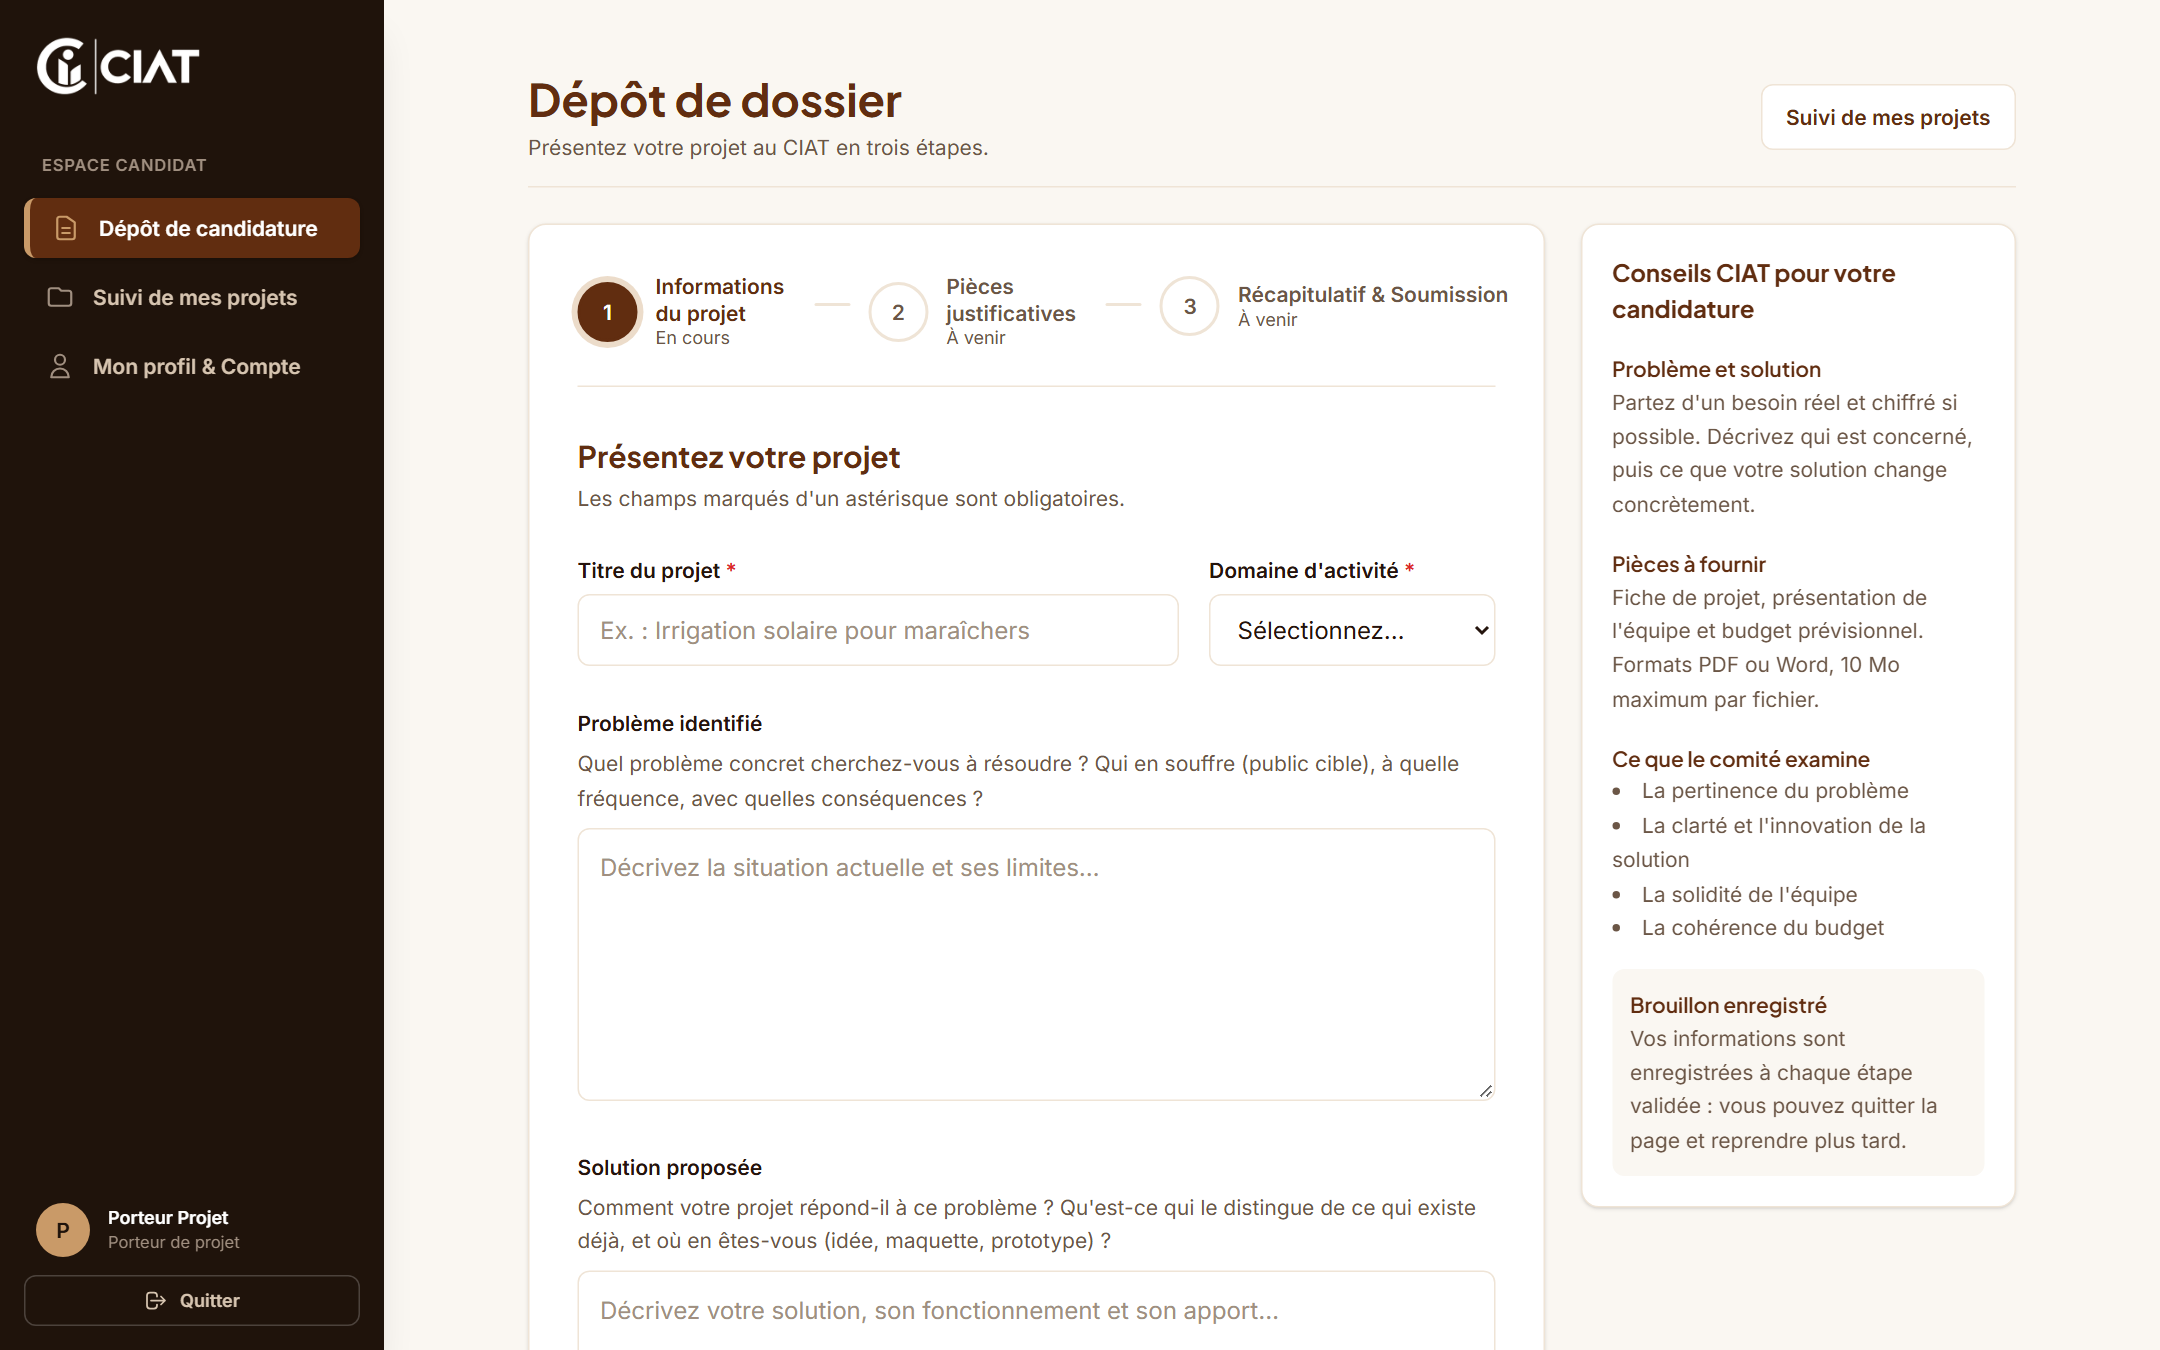
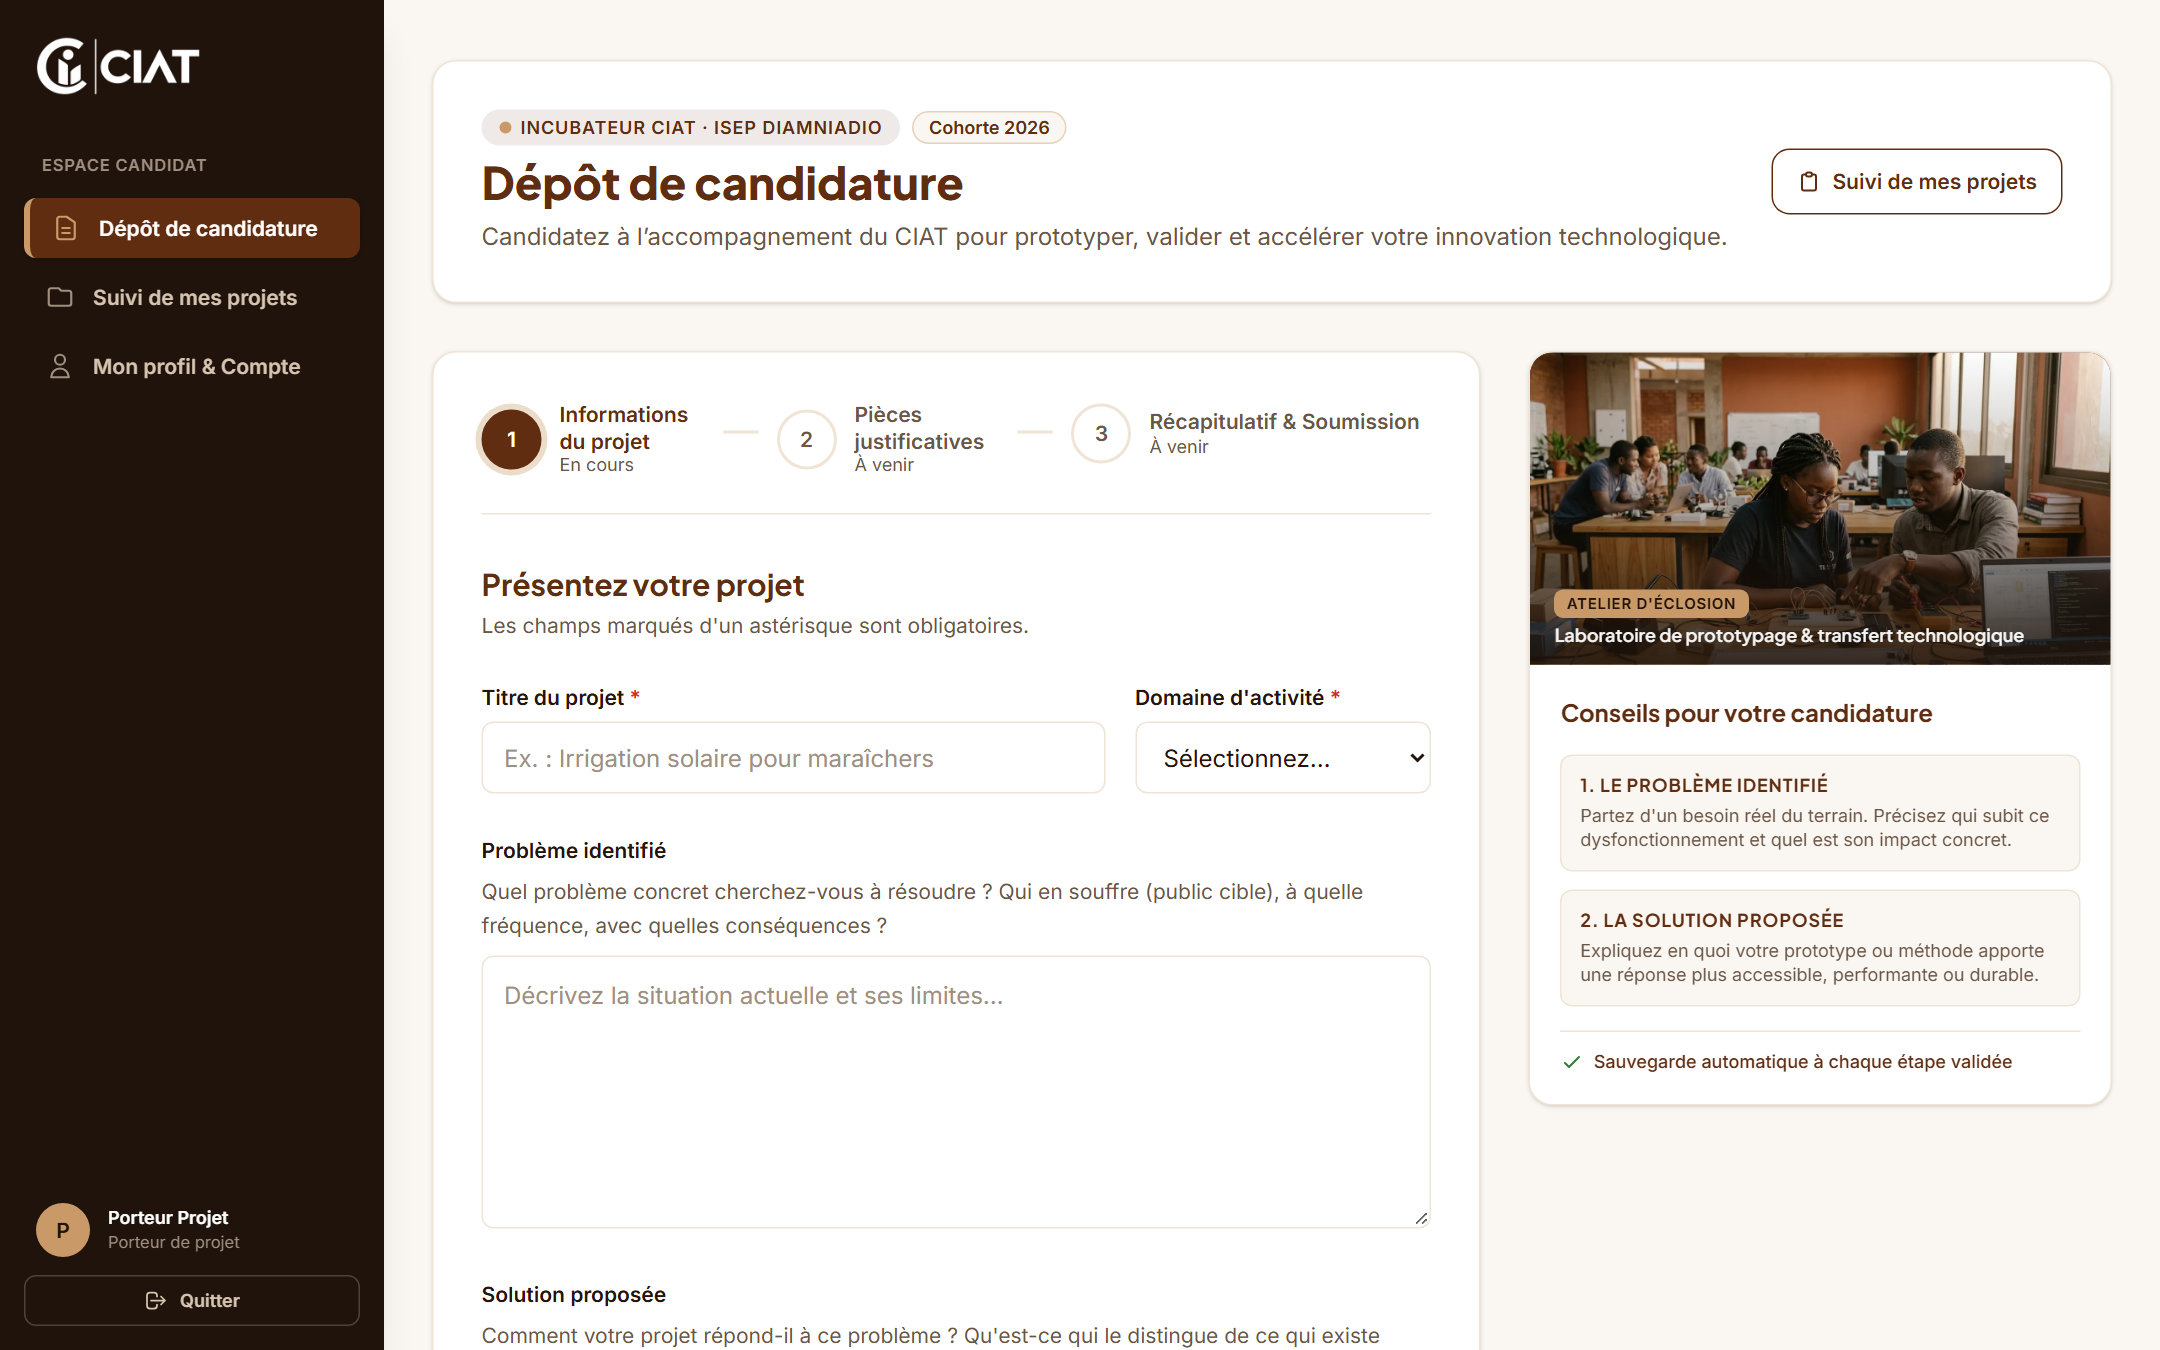
feat(ux): refonte complete depot de candidature avec nouvelle image atelier et accompagnement dynamique

diff --git a/frontend/src/app/incubateur/page.tsx b/frontend/src/app/incubateur/page.tsx
@@ -1,6 +1,7 @@
 "use client";
 
 import { useEffect, useState } from "react";
+import Image from "next/image";
 import Link from "next/link";
 import { ProtectedRoute } from "@/components/ProtectedRoute";
 import { useAuth } from "@/context/AuthContext";
@@ -130,25 +131,45 @@ function DepotDossier() {
   };
 
   return (
-    <div className="mx-auto w-full max-w-5xl px-4 py-8 sm:py-12">
-      <div className="mb-6 flex flex-wrap items-center justify-between gap-3 border-b border-[#EFE4D6] pb-4">
-        <div>
-          <h1 className="text-2xl font-bold text-[#612D10] sm:text-3xl">Dépôt de dossier</h1>
-          <p className="mt-1 text-sm text-[#6b5646]">Présentez votre projet au CIAT en trois étapes.</p>
-        </div>
-        <div className="flex flex-wrap items-center gap-2">
-          {dossier && !submitted && (
-            <span className="inline-flex min-h-9 items-center gap-2 rounded-full border border-[#C99A68]/60 bg-[#FAF7F2] px-3 text-xs font-semibold text-[#612D10]">
-              <span aria-hidden className="h-2 w-2 rounded-full bg-[#C99A68]" />
-              Brouillon enregistré · Dossier n°{dossier.id}
-            </span>
-          )}
-          <Link
-            href="/incubateur/projets"
-            className="inline-flex min-h-11 items-center rounded-lg border border-[#EFE4D6] bg-white px-4 text-sm font-semibold text-[#612D10] transition-colors hover:bg-[#FAF7F2]"
-          >
-            Suivi de mes projets
-          </Link>
+    <div className="mx-auto w-full max-w-7xl px-4 py-8 sm:px-6 sm:py-10 lg:px-8">
+      {/* En-tête immersif et institutionnel */}
+      <div className="mb-8 rounded-2xl border border-[#EFE4D6] bg-white p-6 shadow-sm sm:p-8">
+        <div className="flex flex-col gap-4 lg:flex-row lg:items-center lg:justify-between">
+          <div className="space-y-1.5">
+            <div className="flex flex-wrap items-center gap-2">
+              <span className="inline-flex items-center gap-1.5 rounded-full bg-[#612D10]/10 px-3 py-1 text-xs font-bold uppercase tracking-wider text-[#612D10]">
+                <span className="h-2 w-2 rounded-full bg-[#C99A68]" />
+                Incubateur CIAT · ISEP Diamniadio
+              </span>
+              <span className="inline-flex items-center rounded-full border border-[#C99A68]/40 bg-[#FAF7F2] px-2.5 py-0.5 text-xs font-semibold text-[#612D10]">
+                Cohorte 2026
+              </span>
+            </div>
+            <h1 className="font-[family-name:var(--font-title)] text-2xl font-extrabold text-[#612D10] sm:text-3xl">
+              Dépôt de candidature
+            </h1>
+            <p className="text-sm text-[#6b5646] sm:text-base">
+              Candidatez à l’accompagnement du CIAT pour prototyper, valider et accélérer votre innovation technologique.
+            </p>
+          </div>
+
+          <div className="flex flex-wrap items-center gap-3">
+            {dossier && !submitted && (
+              <span className="inline-flex min-h-11 items-center gap-2 rounded-xl border border-[#C99A68]/50 bg-[#FAF7F2] px-3.5 text-xs font-semibold text-[#612D10]">
+                <span aria-hidden className="h-2.5 w-2.5 rounded-full bg-[#2E7D32]" />
+                Brouillon enregistré · Dossier n°{dossier.id}
+              </span>
+            )}
+            <Link
+              href="/incubateur/projets"
+              className="inline-flex min-h-11 items-center gap-2 rounded-xl border border-[#612D10] bg-white px-4 text-sm font-semibold text-[#612D10] transition-colors hover:bg-[#FAF7F2]"
+            >
+              <svg className="h-4 w-4" fill="none" viewBox="0 0 24 24" stroke="currentColor">
+                <path strokeLinecap="round" strokeLinejoin="round" strokeWidth={2} d="M9 5H7a2 2 0 00-2 2v12a2 2 0 002 2h10a2 2 0 002-2V7a2 2 0 00-2-2h-2M9 5a2 2 0 002 2h2a2 2 0 002-2M9 5a2 2 0 012-2h2a2 2 0 012 2" />
+              </svg>
+              Suivi de mes projets
+            </Link>
+          </div>
         </div>
       </div>
 
@@ -157,8 +178,8 @@ function DepotDossier() {
           <div className="h-10 w-10 animate-spin rounded-full border-4 border-[#C99A68] border-t-[#612D10]" />
         </div>
       ) : (
-        <div className="grid gap-6 lg:grid-cols-[minmax(0,7fr)_minmax(0,3fr)] lg:items-start">
-          <div className="rounded-xl border border-[#EFE4D6] bg-white p-4 shadow-sm sm:p-8">
+        <div className="grid gap-8 lg:grid-cols-[minmax(0,1.8fr)_minmax(320px,1fr)] lg:items-start">
+          <div className="rounded-2xl border border-[#EFE4D6] bg-white p-6 shadow-sm sm:p-8">
             {!submitted && (
               <div className="mb-8 border-b border-[#EFE4D6] pb-6">
                 <Stepper current={step} maxReached={dossier ? maxReached : 0} onSelect={goTo} />
@@ -226,50 +247,121 @@ function DepotDossier() {
             )}
           </div>
 
-          {!submitted && <ConseilsCiat />}
+          {!submitted && <AccompagnementCiat step={step} />}
         </div>
       )}
     </div>
   );
 }
 
-function ConseilsCiat() {
+function AccompagnementCiat({ step }: { step: number }) {
   return (
-    <aside
-      aria-labelledby="conseils-titre"
-      className="rounded-xl border border-[#EFE4D6] bg-white p-5 shadow-sm lg:sticky lg:top-24"
-    >
-      <h2 id="conseils-titre" className="font-[family-name:var(--font-title)] text-base font-bold text-[#612D10]">
-        Conseils CIAT pour votre candidature
-      </h2>
-      <div className="mt-4 space-y-4 text-sm leading-relaxed text-[#24140D]">
-        <section>
-          <h3 className="font-semibold text-[#612D10]">Problème et solution</h3>
-          <p className="text-[#6b5646]">
-            Partez d&apos;un besoin réel et chiffré si possible. Décrivez qui est concerné, puis ce que votre solution change concrètement.
-          </p>
-        </section>
-        <section>
-          <h3 className="font-semibold text-[#612D10]">Pièces à fournir</h3>
-          <p className="text-[#6b5646]">
-            Fiche de projet, présentation de l&apos;équipe et budget prévisionnel. Formats PDF ou Word, 10 Mo maximum par fichier.
-          </p>
-        </section>
-        <section>
-          <h3 className="font-semibold text-[#612D10]">Ce que le comité examine</h3>
-          <ul className="list-inside list-disc text-[#6b5646]">
-            <li>La pertinence du problème</li>
-            <li>La clarté et l&apos;innovation de la solution</li>
-            <li>La solidité de l&apos;équipe</li>
-            <li>La cohérence du budget</li>
-          </ul>
-        </section>
-        <section className="rounded-lg bg-[#FAF7F2] p-3">
-          <h3 className="font-semibold text-[#612D10]">Brouillon enregistré</h3>
-          <p className="text-[#6b5646]">
-            Vos informations sont enregistrées à chaque étape validée : vous pouvez quitter la page et reprendre plus tard.
-          </p>
-        </section>
+    <aside aria-labelledby="accompagnement-titre" className="space-y-6 lg:sticky lg:top-8">
+      <div className="overflow-hidden rounded-2xl border border-[#EFE4D6] bg-white shadow-sm">
+        <div className="relative h-48 w-full bg-[#24140D] sm:h-52">
+          <Image
+            src="/images/ciat-depot-innovation.jpg"
+            alt="Atelier d'innovation et prototypage technologique au CIAT"
+            fill
+            className="object-cover"
+            priority
+          />
+          <div className="absolute inset-0 bg-gradient-to-t from-[#1F130B]/90 via-[#1F130B]/30 to-transparent" />
+          <div className="absolute bottom-3 left-4 right-4 text-white">
+            <span className="inline-block rounded-md bg-[#C99A68] px-2 py-0.5 text-[10px] font-bold uppercase tracking-wider text-[#1F130B]">
+              Atelier d&apos;Éclosion
+            </span>
+            <p className="mt-1 font-[family-name:var(--font-title)] text-xs font-semibold leading-tight text-white/95">
+              Laboratoire de prototypage & transfert technologique
+            </p>
+          </div>
+        </div>
+
+        <div className="p-5">
+          <h2 id="accompagnement-titre" className="font-[family-name:var(--font-title)] text-base font-bold text-[#612D10]">
+            Conseils pour votre candidature
+          </h2>
+
+          <div className="mt-4 space-y-4 text-sm leading-relaxed text-[#24140D]">
+            {step === 0 && (
+              <div className="space-y-3">
+                <div className="rounded-lg border border-[#EFE4D6] bg-[#FAF7F2] p-3">
+                  <h3 className="text-xs font-bold uppercase tracking-wider text-[#612D10]">
+                    1. Le problème identifié
+                  </h3>
+                  <p className="mt-1 text-xs text-[#6b5646]">
+                    Partez d&apos;un besoin réel du terrain. Précisez qui subit ce dysfonctionnement et quel est son impact concret.
+                  </p>
+                </div>
+                <div className="rounded-lg border border-[#EFE4D6] bg-[#FAF7F2] p-3">
+                  <h3 className="text-xs font-bold uppercase tracking-wider text-[#612D10]">
+                    2. La solution proposée
+                  </h3>
+                  <p className="mt-1 text-xs text-[#6b5646]">
+                    Expliquez en quoi votre prototype ou méthode apporte une réponse plus accessible, performante ou durable.
+                  </p>
+                </div>
+              </div>
+            )}
+
+            {step === 1 && (
+              <div className="space-y-3">
+                <div className="rounded-lg border border-[#EFE4D6] bg-[#FAF7F2] p-3">
+                  <h3 className="text-xs font-bold uppercase tracking-wider text-[#612D10]">
+                    Pièces obligatoires (100% requis)
+                  </h3>
+                  <ul className="mt-2 space-y-1.5 text-xs text-[#6b5646]">
+                    <li className="flex items-center gap-1.5">
+                      <span className="h-1.5 w-1.5 rounded-full bg-[#C99A68]" />
+                      <strong>Fiche de projet</strong> : Résumé structuré
+                    </li>
+                    <li className="flex items-center gap-1.5">
+                      <span className="h-1.5 w-1.5 rounded-full bg-[#C99A68]" />
+                      <strong>Présentation équipe</strong> : Compétences clés
+                    </li>
+                    <li className="flex items-center gap-1.5">
+                      <span className="h-1.5 w-1.5 rounded-full bg-[#C99A68]" />
+                      <strong>Budget prévisionnel</strong> : Estimation claire
+                    </li>
+                  </ul>
+                </div>
+                <p className="text-xs text-[#6b5646]">
+                  Formats acceptés : PDF ou Word (.docx). Limite : 10 Mo par document.
+                </p>
+              </div>
+            )}
+
+            {step === 2 && (
+              <div className="space-y-3">
+                <div className="rounded-lg border border-[#EFE4D6] bg-[#FAF7F2] p-3">
+                  <h3 className="text-xs font-bold uppercase tracking-wider text-[#612D10]">
+                    Instruction par le comité
+                  </h3>
+                  <p className="mt-1 text-xs text-[#6b5646]">
+                    Votre dossier sera instruit sous 10 jours ouvrés. Vous recevrez une notification par email dès que l&apos;évaluation sera disponible.
+                  </p>
+                </div>
+                <div className="rounded-lg border border-[#EFE4D6] bg-[#FAF7F2] p-3">
+                  <h3 className="text-xs font-bold uppercase tracking-wider text-[#612D10]">
+                    Mentorat & Prototypage
+                  </h3>
+                  <p className="mt-1 text-xs text-[#6b5646]">
+                    Les projets admis bénéficient de l&apos;accès au FabLab, aux bancs d&apos;essais de l&apos;ISEP et d&apos;un mentor attitré.
+                  </p>
+                </div>
+              </div>
+            )}
+
+            <div className="border-t border-[#EFE4D6] pt-3 text-xs text-[#6b5646]">
+              <p className="flex items-center gap-1.5 font-medium text-[#612D10]">
+                <svg className="h-4 w-4 text-[#2E7D32]" fill="none" viewBox="0 0 24 24" stroke="currentColor">
+                  <path strokeLinecap="round" strokeLinejoin="round" strokeWidth={2} d="M5 13l4 4L19 7" />
+                </svg>
+                Sauvegarde automatique à chaque étape validée
+              </p>
+            </div>
+          </div>
+        </div>
       </div>
     </aside>
   );
